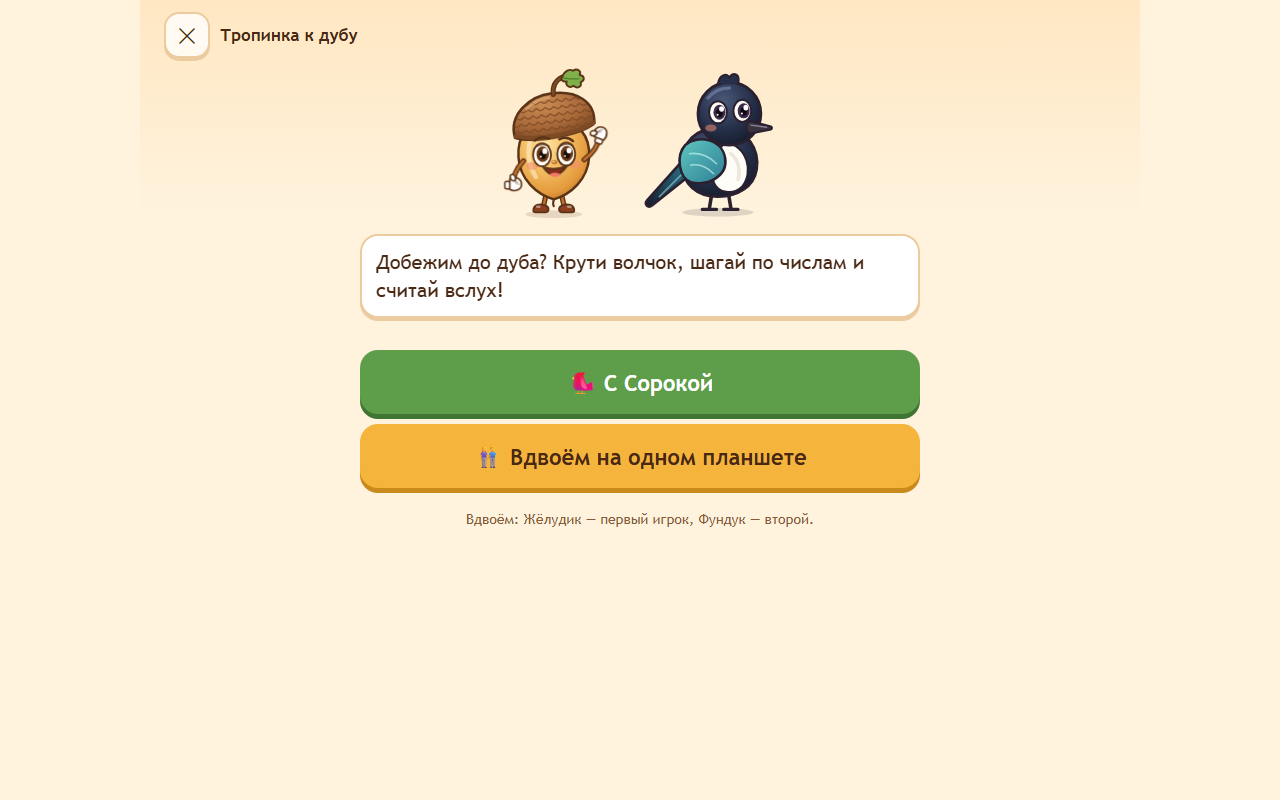
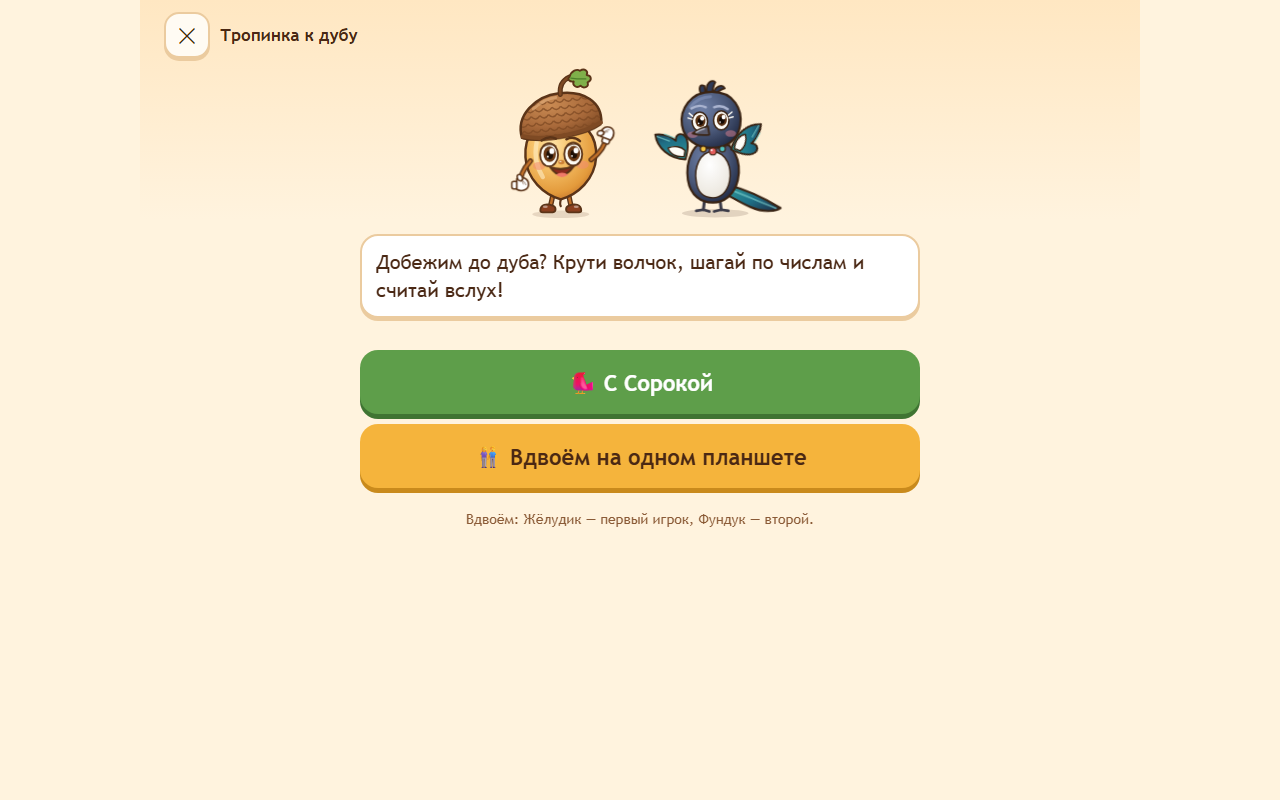
Тропинка: новая Сорока по концепту (4 позы, анимация), фишки-головы в кружках цвета игрока, крупный «Выпало N» с точками на волчке

diff --git a/js/art2.js b/js/art2.js
@@ -4,48 +4,86 @@
 'use strict';
 
 let art2N = 0;
-const A2 = { INK: '#2A2030', NAVY1: '#4A5878', NAVY2: '#26304A', NAVY3: '#151B2C', TEAL1: '#5FC7C0', TEAL2: '#2E7E96', CHEEK: '#F28C70', IRIS: '#3B2A4A' };
 
-/* Сорока: mood = happy | cheer (крылья вверх) | think */
-ART.soroka = function (mood = 'happy', cls = '') {
-  const u = 'so' + (++art2N), I = A2.INK;
-  const cheer = mood === 'cheer', think = mood === 'think';
-  const eye = (cx, cy) => {
-    if (cheer) return `<path d="M${cx - 11} ${cy + 3} q11 -14 22 0" stroke="${I}" stroke-width="4.5" fill="none" stroke-linecap="round"/>`;
-    const lx = think ? -3 : 2, ly = think ? -4 : 0;
-    return `<ellipse cx="${cx}" cy="${cy}" rx="12.5" ry="15.5" fill="#FFFDF6" stroke="${I}" stroke-width="2.8"/>
-<ellipse cx="${cx + lx}" cy="${cy + ly}" rx="8.4" ry="10.5" fill="${A2.IRIS}"/><ellipse cx="${cx + lx}" cy="${cy + ly + 1}" rx="4.6" ry="6" fill="#0E0812"/>
-<ellipse cx="${cx + lx + 3}" cy="${cy + ly - 4.5}" rx="3.4" ry="3.9" fill="#fff"/><circle cx="${cx + lx - 2.6}" cy="${cy + ly + 3.6}" r="1.4" fill="#fff"/>`;
-  };
-  const wing = cheer
-    ? `<g transform="rotate(-38 82 112)"><path d="M84 112 C66 96 34 92 22 104 C34 110 30 118 40 122 C34 128 40 136 52 134 C62 142 82 136 92 128 Z" fill="url(#w${u})" stroke="${I}" stroke-width="3.6" stroke-linejoin="round"/>
-<path d="M40 110 C54 112 68 116 82 120 M46 126 C58 126 70 126 84 126" stroke="#BFF1EC" stroke-width="2.2" fill="none" stroke-linecap="round" opacity=".7"/></g>`
-    : `<path d="M66 108 C84 92 118 100 122 126 C126 150 100 166 74 160 C58 154 52 124 66 108 Z" fill="url(#w${u})" stroke="${I}" stroke-width="3.6" stroke-linejoin="round"/>
-<path d="M72 120 C86 118 100 124 110 134 M74 136 C86 134 98 140 106 148" stroke="#BFF1EC" stroke-width="2.2" fill="none" stroke-linecap="round" opacity=".7"/>`;
-  return `<svg class="chip sor sor-${mood} ${cls}" viewBox="0 0 220 210" xmlns="http://www.w3.org/2000/svg" role="img" aria-label="Сорока"><defs>
-<radialGradient id="b${u}" cx="40%" cy="30%" r="75%"><stop offset="0" stop-color="${A2.NAVY1}"/><stop offset=".6" stop-color="${A2.NAVY2}"/><stop offset="1" stop-color="${A2.NAVY3}"/></radialGradient>
-<linearGradient id="w${u}" x1="0" y1="0" x2="1" y2="1"><stop offset="0" stop-color="${A2.TEAL1}"/><stop offset="1" stop-color="${A2.TEAL2}"/></linearGradient>
-<linearGradient id="t${u}" x1="1" y1="0" x2="0" y2="1"><stop offset="0" stop-color="${A2.TEAL2}"/><stop offset="1" stop-color="${A2.NAVY3}"/></linearGradient></defs>
-<ellipse cx="112" cy="202" rx="50" ry="6" fill="${I}" opacity=".15"/>
-<g class="sor-hop">
-<path d="M78 146 L20 192 C14 197 8 191 13 185 L64 128 Z" fill="url(#t${u})" stroke="${I}" stroke-width="3.6" stroke-linejoin="round"/>
-<path d="M30 180 L64 146" stroke="#9FE3DD" stroke-width="2.4" stroke-linecap="round" opacity=".55"/>
-<path d="M104 172 L100 196 M126 172 L130 196" stroke="${I}" stroke-width="5" stroke-linecap="round"/>
-<path d="M90 198 L110 198 M120 198 L140 198" stroke="${I}" stroke-width="4.5" stroke-linecap="round"/>
-<path d="M114 84 C156 84 170 116 166 142 C162 166 140 180 112 180 C82 180 62 162 62 134 C62 104 80 84 114 84 Z" fill="url(#b${u})" stroke="${I}" stroke-width="4" stroke-linejoin="round"/>
-<path d="M122 104 C154 110 162 146 146 166 C134 178 112 176 106 160 C102 142 108 118 122 104 Z" fill="#FFFDF7" stroke="${I}" stroke-width="3" stroke-linejoin="round"/>
-<path d="M130 120 C140 128 144 142 140 156" stroke="#E8E0D6" stroke-width="5" fill="none" stroke-linecap="round" opacity=".8"/>
-${wing}
-<circle cx="128" cy="64" r="44" fill="url(#b${u})" stroke="${I}" stroke-width="4"/>
-<path d="M112 22 C114 10 124 6 128 14 C132 4 144 8 140 22" fill="${A2.NAVY2}" stroke="${I}" stroke-width="3" stroke-linejoin="round"/>
-<path d="M98 42 C106 32 118 28 128 28" stroke="#7F90B8" stroke-width="5" fill="none" stroke-linecap="round" opacity=".55"/>
-${eye(112, 62)}${eye(146, 60)}
-<ellipse cx="102" cy="84" rx="8" ry="5" fill="${A2.CHEEK}" opacity=".55"/><ellipse cx="160" cy="82" rx="8" ry="5" fill="${A2.CHEEK}" opacity=".55"/>
-${think ? `<path d="M100 40 q10 -6 20 0 M136 38 q10 -2 18 4" stroke="${I}" stroke-width="3.6" fill="none" stroke-linecap="round"/>` : ''}
-<path d="M156 74 L186 82 C188 83 188 85 186 86 L156 92 C150 88 150 78 156 74 Z" fill="#3A3340" stroke="${I}" stroke-width="3" stroke-linejoin="round"/>
-<path d="M158 80 L180 83" stroke="#8C8496" stroke-width="2" stroke-linecap="round"/>
-${cheer ? `<path d="M150 96 q8 8 16 0" stroke="${I}" stroke-width="3" fill="#C84A3A" stroke-linejoin="round"/>` : ''}
-</g></svg>`;
+/* ---------- Сорока (Сорока-Путаница) — по утверждённому концепту (генератор заказчика soroka-gen.py, перенесён в JS) ----------
+   Приметы: тёмно-синее тело с сине-бирюзовым отливом, белое брюшко и белые пятна на крыльях, длинный бирюзовый хвост,
+   хохолок из трёх перьев, большие карие глаза с бликами и светлыми ресничками, короткий серый клюв, бусы из блестяшек.
+   Позы: happy — машет крылом (по умолчанию), cheer — «Ура! Мой ход!», sly — подмигивает с блестящим орешком
+   (хитрит; в будущем «Исправь Путаницу»), oops — её обогнали / поймали: удивлённые глаза, капелька.
+   head = true — только голова (для фишки на дорожке). */
+const SOR = { INK: '#3A2414', D1: '#4A5878', D2: '#2E3A57', D3: '#1E2740', TEAL: '#2F9C9A', TEAL2: '#1F6F86', WHITE: '#FFFDF7', BEAK: '#3B3B48', BLUSH: '#F28C9A' };
+const SOR_EYES = [[92, 90], [128, 88]];
+const SOR_POSE = { happy: [[70, 148, 200], [150, 140, -60]], sly: [[70, 150, 200], [140, 160, 150]], cheer: [[70, 130, 240], [152, 128, -80]], oops: [[70, 150, 200], [148, 150, -30]] };
+const sorS = (d, f, w = 3.4) => `<path d="${d}" fill="${f}" stroke="${SOR.INK}" stroke-width="${w}" stroke-linejoin="round" stroke-linecap="round"/>`;
+function sorEyes(m) {
+  const W = SOR.WHITE, I = SOR.INK;
+  let open = '', closed = '';
+  SOR_EYES.forEach(([x, y], i) => {
+    if ((m === 'sly' && i === 1) || m === 'cheer') { closed += `<path d="M${x - 11} ${y + 2} q11 -13 22 0" stroke="${W}" stroke-width="5" fill="none" stroke-linecap="round"/>`; return; }
+    const [lx, ly] = { happy: [1, -1], sly: [-3, 0], oops: [5, -2] }[m], big = m === 'oops' ? 1.12 : 1;
+    open += `<ellipse cx="${x}" cy="${y}" rx="${(13 * big).toFixed(1)}" ry="${(16 * big).toFixed(1)}" fill="${W}" stroke="${I}" stroke-width="2.6"/>
+<ellipse cx="${x + lx}" cy="${y + ly}" rx="8.4" ry="10.4" fill="#5A3214"/><ellipse cx="${x + lx}" cy="${y + ly + 1}" rx="4.6" ry="5.8" fill="#140A04"/>
+<ellipse cx="${x + lx + 3}" cy="${y + ly - 4.5}" rx="3.4" ry="3.9" fill="#fff"/><circle cx="${x + lx - 3}" cy="${y + ly + 4}" r="1.4" fill="#fff"/>`;
+  });
+  SOR_EYES.forEach(([x, y], i) => {   /* реснички — она девочка */
+    const s = i ? 1 : -1;
+    if ((m === 'sly' && s === 1) || m === 'cheer') return;
+    const ex = x + s * 12;
+    open += `<path d="M${ex} ${y - 9} l${s * 6} -5 M${ex + s} ${y - 4} l${s * 7} -2" stroke="${W}" stroke-width="2.4" stroke-linecap="round"/>`;
+  });
+  return (open ? `<g class="sor-eyes">${open}</g>` : '') + closed;
+}
+const sorBrows = m => `<path d="${{ happy: 'M78 68 q12 -8 24 -2 M116 66 q12 -5 23 3', sly: 'M78 70 q12 -4 24 0 M116 62 q12 -9 23 1',
+  cheer: 'M78 70 q12 -10 24 -2 M116 68 q12 -8 23 2', oops: 'M78 64 q12 -10 24 -4 M116 62 q12 -8 23 0' }[m]}" stroke="#AAB4D0" stroke-width="4" fill="none" stroke-linecap="round"/>`;
+function sorBeak(m) {
+  const B = '#5A5A6A';
+  if (m === 'cheer') return sorS('M104 100 Q90 100 78 106 Q92 108 106 108 Z', B, 3) + sorS('M104 112 Q92 114 82 120 Q96 122 106 116 Z', B, 3) + '<path d="M90 110 L102 111" stroke="#C0465A" stroke-width="4" stroke-linecap="round"/>';
+  return sorS('M106 98 Q94 100 80 110 Q94 114 108 112 Z', B, 3) + '<path d="M100 102 Q92 104 86 108" stroke="#B5BACB" stroke-width="2.2" fill="none" stroke-linecap="round"/>';
+}
+const sorWing = ([cx, cy, rot], u, side) => `<g transform="translate(${cx} ${cy}) rotate(${rot})"><g class="sor-wing sor-wing-${side}">`
+  + sorS('M0 -6 C26 -14 52 -4 62 16 C50 22 36 22 26 18 C30 26 26 32 18 32 C10 30 2 20 0 -6 Z', `url(#t${u})`, 3.2)
+  + sorS('M4 -2 C16 -8 28 -6 34 2 C26 10 14 12 6 8 Z', SOR.WHITE, 2.4)
+  + '<path d="M36 14 L58 14 M30 22 L48 22" stroke="#7FD3CF" stroke-width="2.2" stroke-linecap="round" opacity=".7"/></g></g>';
+
+ART.soroka = function (mood = 'happy', cls = '', head = false) {
+  if (mood === 'think') mood = 'oops';
+  if (!SOR_POSE[mood]) mood = 'happy';
+  const u = 'so' + (++art2N), I = SOR.INK, [L, Rw] = SOR_POSE[mood];
+  const blink = (3 + Math.random() * 2).toFixed(1);
+  const tuft = sorS('M96 48 C88 34 92 26 100 30 C100 36 102 42 104 48 Z', SOR.D2, 3)   /* хохолок: три пера */
+    + sorS('M104 44 C100 26 112 18 118 24 C114 30 114 38 112 46 Z', SOR.D2, 3)
+    + sorS('M114 46 C116 30 130 26 134 34 C126 36 120 42 118 48 Z', SOR.D2, 3);
+  const extra = mood === 'sly'
+    ? `<g transform="translate(150 160)"><ellipse rx="11" ry="13" fill="#F4C542" stroke="${I}" stroke-width="2.6"/><path d="M-11 -4 Q0 -18 11 -4 Z" fill="#A8693A" stroke="${I}" stroke-width="2.4"/><path d="M-4 2 q2 -6 6 -6" stroke="#fff" stroke-width="2.4" fill="none"/><path class="sor-spark" d="M16 -14 l4 -4 M18 -6 l6 -1 M14 -20 l1 -6" stroke="#F4C542" stroke-width="2.5" stroke-linecap="round"/></g>`
+    : mood === 'oops' ? `<path d="M150 70 q6 10 0 14 q-6 -4 0 -14 Z" fill="#9FD8F2" stroke="${I}" stroke-width="2"/>` : '';
+  const squash = mood === 'cheer' ? ' transform="translate(115 244) scale(1.04 .96) translate(-115 -244)"' : '';
+  const vb = head ? '54 14 116 116' : '0 0 240 252';
+  const body = head ? '' : `<g class="sor-tail">${sorS('M138 196 C170 206 200 222 226 240 C216 246 196 246 176 236 C160 228 146 218 132 210 Z', `url(#t${u})`, 3.4)}
+<path d="M146 206 C172 218 196 230 218 240" stroke="#7FD3CF" stroke-width="3" fill="none" stroke-linecap="round" opacity=".6"/></g>
+<path d="M100 222 L98 238 M126 222 L128 238" stroke="${SOR.BEAK}" stroke-width="5" stroke-linecap="round"/>
+<path d="M86 240 L98 238 L108 241 M116 241 L128 238 L140 240" stroke="${SOR.BEAK}" stroke-width="4.5" fill="none" stroke-linecap="round" stroke-linejoin="round"/>
+${sorS('M114 120 C152 122 162 160 156 188 C150 214 132 226 114 226 C94 226 76 214 72 188 C68 160 78 120 114 120 Z', `url(#h${u})`, 3.6)}
+${sorS('M114 140 C138 142 146 168 142 190 C138 210 126 218 114 218 C100 218 88 210 86 190 C82 168 92 140 114 140 Z', `url(#w${u})`, 2.4)}
+${sorWing(L, u, 'l')}`;
+  const front = head ? '' : `<path d="M84 128 Q114 146 144 128" stroke="${I}" stroke-width="1.6" fill="none"/>
+<circle cx="98" cy="136" r="5" fill="#F4C542" stroke="${I}" stroke-width="2"/><circle cx="114" cy="140" r="6" fill="#E25B5B" stroke="${I}" stroke-width="2"/><circle cx="130" cy="136" r="5" fill="#4FC3C0" stroke="${I}" stroke-width="2"/>
+<circle cx="112" cy="138" r="1.8" fill="#fff"/>
+${sorWing(Rw, u, 'r')}
+${extra}`;
+  return `<svg class="chip sor sor-${mood}${head ? ' head' : ''} ${cls}" style="--blink:${blink}s" viewBox="${vb}" xmlns="http://www.w3.org/2000/svg" role="img" aria-label="Сорока"><defs>
+<radialGradient id="h${u}" cx="35%" cy="30%" r="80%"><stop offset="0" stop-color="#6E7FA6"/><stop offset=".55" stop-color="${SOR.D1}"/><stop offset="1" stop-color="${SOR.D3}"/></radialGradient>
+<linearGradient id="t${u}" x1="0" y1="0" x2="1" y2="1"><stop offset="0" stop-color="${SOR.TEAL}"/><stop offset=".55" stop-color="${SOR.TEAL2}"/><stop offset="1" stop-color="${SOR.D3}"/></linearGradient>
+<radialGradient id="w${u}" cx="40%" cy="30%" r="80%"><stop offset="0" stop-color="#FFFFFF"/><stop offset="1" stop-color="#E9E4DA"/></radialGradient></defs>
+${head ? '' : `<ellipse cx="118" cy="244" rx="56" ry="7" fill="${I}" opacity=".15"/>`}
+<g class="sor-jump"><g class="sor-bob"><g${squash}>
+${body}
+${tuft}
+${sorS('M112 40 C150 40 164 70 160 96 C156 122 136 134 112 134 C86 134 66 120 62 96 C58 70 76 40 112 40 Z', `url(#h${u})`, 3.6)}
+<path d="M76 66 C84 54 98 48 110 48" stroke="#8C9BC4" stroke-width="5" fill="none" stroke-linecap="round" opacity=".5"/>
+<ellipse cx="80" cy="112" rx="9" ry="5.5" fill="${SOR.BLUSH}" opacity=".45"/><ellipse cx="144" cy="110" rx="9" ry="5.5" fill="${SOR.BLUSH}" opacity=".45"/>
+${sorBrows(mood)}${sorEyes(mood)}${sorBeak(mood)}
+${front}
+</g></g></g></svg>`;
 };
 
 /* Дуб у конца тропинки: big — для финальной сцены */
@@ -64,8 +102,8 @@ ART.oak = function (cls = '') {
 ${acorn(60, 96)}${acorn(132, 72)}${acorn(150, 118)}${acorn(92, 124)}${acorn(110, 92)}</svg>`;
 };
 
-/* Волчок: half — число на боку (1 или 2), spinning — для анимации */
-ART.top = function (n = '', cls = '') {
+/* Волчок: n — число на боку (1 или 2), dots — ещё и столько же жёлудей-точек сверху, spinning — для анимации */
+ART.top = function (n = '', cls = '', dots = false) {
   const u = 'top' + (++art2N), I = '#4A2814';
   return `<svg class="ktop ${cls}" viewBox="0 0 120 130" xmlns="http://www.w3.org/2000/svg" role="img" aria-label="Волчок"><defs>
 <linearGradient id="g${u}" x1="0" x2="1"><stop offset="0" stop-color="#E8742E"/><stop offset=".5" stop-color="#F5B43C"/><stop offset="1" stop-color="#E8742E"/></linearGradient></defs>
@@ -74,5 +112,6 @@ ART.top = function (n = '', cls = '') {
 <path d="M14 58 C14 38 36 28 60 28 C84 28 106 38 106 58 C106 80 76 104 62 120 C61 121 59 121 58 120 C44 104 14 80 14 58 Z" fill="url(#g${u})" stroke="${I}" stroke-width="4" stroke-linejoin="round"/>
 <path d="M18 60 C40 70 80 70 102 60" stroke="#C0561E" stroke-width="5" fill="none"/>
 <path d="M30 44 C40 36 52 34 62 34" stroke="#FFE3A6" stroke-width="5" fill="none" stroke-linecap="round" opacity=".7"/>
-${n !== '' ? `<circle cx="60" cy="80" r="17" fill="#FFFBF3" stroke="${I}" stroke-width="3"/><text x="60" y="89" text-anchor="middle" font-size="26" font-weight="800" fill="${I}" font-family="system-ui, sans-serif">${n}</text>` : ''}</g></svg>`;
+${n !== '' ? (() => { const cy = dots ? 54 : 80; return `<circle cx="60" cy="${cy}" r="17" fill="#FFFBF3" stroke="${I}" stroke-width="3"/><text x="60" y="${cy + 9}" text-anchor="middle" font-size="26" font-weight="800" fill="${I}" font-family="system-ui, sans-serif">${n}</text>`; })() : ''}
+${dots && n ? Array.from({ length: n }, (_, i) => `<g transform="translate(${60 + (i - (n - 1) / 2) * 22} 84)"><path d="M-7 1 C-7 9 -3 14 0 15 C3 14 7 9 7 1 Z" fill="#7A3E12" stroke="${I}" stroke-width="2.5" stroke-linejoin="round"/><path d="M-9 1.5 C-9 -7 9 -7 9 1.5 Z" fill="#4A2814" stroke="${I}" stroke-width="2.5" stroke-linejoin="round"/><path d="M0 -6 L1 -10" stroke="${I}" stroke-width="2.5" stroke-linecap="round"/></g>`).join('') : ''}</g></svg>`;
 };

diff --git a/css/style.css b/css/style.css
@@ -383,16 +383,24 @@ svg.ch-show .ch-arm-r { transform-origin: 138px 158px; animation: zhwave .45s ea
 .pcell b { display: flex; align-items: center; justify-content: center; width: 100%; aspect-ratio: 1; border-radius: 14px; background: #FFFBF3;
   border: 3px solid #D9A96A; box-shadow: 0 4px 0 #C08A4E; font-size: clamp(18px, 3.6vw, 34px); font-weight: 800; }
 .ptrack.n20 .pcell b { border-radius: 10px; font-size: clamp(14px, 2vw, 24px); border-width: 2px; }
-.pcell.next b { background: #FFE9A8; border-color: var(--gold-d); animation: kpulse 1s ease-in-out infinite; }
+/* Клетка с фишкой — цвет игрока (две фишки — пополам) */
+.pcell.p0 b { background: var(--c0); border-color: var(--e0); }
+.pcell.p1 b { background: var(--c1); border-color: var(--e1); }
+.pcell.p0.p1 b { background: linear-gradient(90deg, var(--c0) 50%, var(--c1) 50%); }
+.pcell.next b { background: #fff; border: 3px dashed var(--green); animation: kpulse 1s ease-in-out infinite; }   /* «шагай сюда» — не путать с цветом игрока */
 .pcell.ok b { background: #DDF2CC; border-color: var(--green); }
 .pcell.no b { background: #FBE0D8; border-color: var(--red); }
 .pcell.hint b { background: #FFF2C4; }
 .pcell.goal b { background: #FFD36E; border-color: var(--gold-d); animation: kpulse 1s ease-in-out infinite; }
-.ptoks { display: flex; justify-content: center; align-items: flex-end; height: 64px; width: 100%; }
-.ptrack.n20 .ptoks { height: 48px; }
-.ptok { display: block; height: 100%; flex: 0 1 auto; min-width: 0; }
-.ptok svg { height: 100%; width: auto; max-width: 100%; display: block; }
-.ptok.t1 { margin-left: -14%; }
+/* Фишка — голова героя в кружке его цвета. На планшете не меньше 48 px; может выходить за ширину клетки */
+.ptoks { display: flex; justify-content: center; align-items: flex-end; height: 68px; width: 100%; overflow: visible; padding-bottom: 4px; }
+.ptrack.n20 .ptoks { height: 56px; }
+.ptok { display: block; height: 100%; aspect-ratio: 1; flex: none; border-radius: 50%; background: var(--c); border: 3px solid var(--e);
+  box-shadow: 0 3px 0 var(--e); overflow: hidden; box-sizing: border-box; }
+.ptok svg { width: 100%; height: 100%; display: block; }
+.ptok svg.zh, .ptok svg.sor, .ptok svg.ch { animation: none; }
+.ptok.t1 { margin-left: -16px; }
+.ptok.cur { position: relative; z-index: 1; }
 .ptok.hop { animation: phop .45s cubic-bezier(.3, .7, .4, 1); }
 @keyframes phop { 40% { transform: translateY(-16px); } }
 .poak { flex: none; width: clamp(64px, 11vw, 110px); }
@@ -401,19 +409,33 @@ svg.ch-show .ch-arm-r { transform-origin: 138px 158px; animation: zhwave .45s ea
 .pbottom .helper { flex: 1; margin-top: 0; }
 .pspin { flex: none; display: flex; flex-direction: column; align-items: center; gap: 4px; }
 .ptopbtn { width: 128px; height: 136px; border: 0; background: none; padding: 0; cursor: pointer; }
-.ptopbtn[disabled] { opacity: .6; cursor: default; }
+.ptopbtn[disabled] { cursor: default; }   /* не бледнеет: на волчке остаётся крупно, что выпало */
 .ptopbtn:not([disabled]) svg { animation: kpulse 1.2s ease-in-out infinite; }
 .ptopbtn svg { width: 100%; height: 100%; }
 svg.ktop.spinning .ktop-body { transform-box: fill-box; transform-origin: 50% 70%; animation: pspin .25s linear infinite; }
 @keyframes pspin { 0% { transform: rotate(-14deg) scaleX(1); } 50% { transform: rotate(14deg) scaleX(.82); } 100% { transform: rotate(-14deg) scaleX(1); } }
 .pbig { font-size: 40px; font-weight: 800; line-height: 1; }
+.proll { display: block; font-size: 26px; font-weight: 800; margin-bottom: 4px; }
+.proll b { font-size: 40px; line-height: 1; }
+.pdots { color: var(--gold-d); letter-spacing: 4px; font-size: 26px; }
 .pfinal .pscene { position: relative; width: min(340px, 90%); margin: 0 auto; }
 .pfinal .pscene svg.oak { width: 70%; height: auto; display: block; margin: 0 auto; }
 .pfinal .pwin { position: absolute; left: 0; bottom: 0; width: 34%; }
 .pfinal .plose { position: absolute; right: 0; bottom: 0; width: 24%; }
 .pfinal .pwin svg, .pfinal .plose svg { width: 100%; height: auto; }
-svg.sor { overflow: visible; animation: zhbob 2.4s ease-in-out infinite; }
-svg.sor-cheer .sor-hop { transform-box: fill-box; transform-origin: 50% 100%; animation: zhjump .8s cubic-bezier(.3, .7, .4, 1) 2; }
+/* ---------- Сорока: покачивание, моргание раз в 3–5 с, хвост качается; cheer — прыжок со взмахом крыльев ---------- */
+svg.sor { overflow: visible; }
+svg.sor.head { overflow: hidden; }
+svg.sor .sor-bob { animation: zhbob 2.4s ease-in-out infinite; }
+svg.sor .sor-eyes { transform-box: fill-box; transform-origin: center; animation: zhblink var(--blink, 4s) linear infinite; }
+svg.sor .sor-tail { transform-origin: 136px 202px; animation: chtail 3s ease-in-out infinite; }
+svg.sor-cheer .sor-jump { transform-box: fill-box; transform-origin: 50% 100%; animation: zhjump .8s cubic-bezier(.3, .7, .4, 1) 2; }
+svg.sor-cheer .sor-wing { animation: sorflap .2s ease-in-out 8 alternate; }
+@keyframes sorflap { from { transform: rotate(0); } to { transform: rotate(-18deg); } }
+svg.sor-happy .sor-wing-r { animation: sorwave 1.6s ease-in-out infinite; }
+@keyframes sorwave { 0%, 60%, 100% { transform: rotate(0); } 70%, 90% { transform: rotate(-16deg); } 80% { transform: rotate(4deg); } }
+svg.sor-sly .sor-spark { animation: sorspark 1.2s ease-in-out infinite; }
+@keyframes sorspark { 0%, 100% { opacity: 1; } 50% { opacity: .2; } }
 /* Узко (телефон): дуб уходит под ряд, чтобы клетки были крупнее;
    20 клеток — две строки по 10 (1–10, под ними 11–20), обе читаются слева направо. Планшет — всегда один ряд. */
 @media (max-width: 600px) {
@@ -423,11 +445,11 @@ svg.sor-cheer .sor-hop { transform-box: fill-box; transform-origin: 50% 100%; an
   .poak svg { width: 58px; }
   .ptrack.n20 .pcells { grid-template-columns: repeat(10, minmax(0, 1fr)); gap: 2px; row-gap: 2px; }
   .ptrack.n20 .pcell b { border-radius: 8px; font-size: 16px; box-shadow: 0 2px 0 #C08A4E; }
-  .ptrack.n20 .ptoks { height: 34px; }
+  .ptrack.n20 .ptoks { height: 32px; }
   .ptrack.n20 .pstart { align-self: flex-start; }   /* старт — у первой строки, рядом с 1 */
   .pcell b { font-size: 17px; border-radius: 9px; border-width: 2px; }
-  .ptoks { height: 42px; }
+  .ptoks { height: 38px; }
   .pbottom { flex-direction: column-reverse; align-items: stretch; }
   .pspin { align-self: center; }
 }
-@media (prefers-reduced-motion: reduce) { svg.sor, svg.sor *, .ptok.hop, svg.ktop.spinning .ktop-body { animation: none !important; } }
+@media (prefers-reduced-motion: reduce) { svg.sor, svg.sor *, .ptok, .ptok *, svg.ktop.spinning .ktop-body { animation: none !important; } }

diff --git a/dev/shot-path.html b/dev/shot-path.html
@@ -35,8 +35,8 @@
   const stage = (stars, mode, f) => { S.stars.k_path = stars; pathStart(mode); setTimeout(() => { f(); }, 400); };
   const draw = (pos, turn) => { PT.pos = pos; PT.turn = turn; pathRender(); pathTokens(); document.getElementById('pwho').textContent = 'Ход: ' + P_PLAYERS[PT.mode][turn].name; };
   if (s === 'setup') pathSetup();
-  if (s === 'd1') stage(0, 'bird', () => { draw([3, 2], 0); PT.phase = 'tap'; PT.target = 5; document.getElementById('pspin').innerHTML = ART.top(2); pMark(4, 'next'); pBub('Шагай: нажимай на клетки по порядку 👆', 'show'); });
-  if (s === 'd2') stage(1, 'bird', () => { draw([4, 3], 0); const q = pathAsk(4, 2, 10); PT.phase = 'ask'; PT.q = q; document.getElementById('pspin').innerHTML = ART.top(2); pBub(`<b>${q.text}</b> 👆`, 'think'); });
+  if (s === 'd1') stage(0, 'bird', () => { draw([3, 2], 0); PT.phase = 'tap'; PT.target = 5; document.getElementById('pspin').innerHTML = ART.top(2, '', true); PT.roll = 2; pMark(4, 'next'); pBub('Шагай: нажимай на клетки по порядку 👆', 'show'); });
+  if (s === 'd2') stage(1, 'bird', () => { draw([4, 3], 0); const q = pathAsk(4, 2, 10); PT.phase = 'ask'; PT.q = q; document.getElementById('pspin').innerHTML = ART.top(2, '', true); PT.roll = 2; pBub(`<b>${q.text}</b> 👆`, 'think'); });
   if (s === 'd3') stage(2, 'bird', () => { draw([11, 9], 0); const q = { kind: 'where', ans: 17, text: 'Покажи, где живёт число 17.' }; PT.phase = 'ask'; PT.q = q; pBub(`<b>${q.text}</b> 👆`, 'think'); });
   if (s === 'two') stage(1, 'two', () => { draw([6, 5], 1); PT.phase = 'spin'; document.getElementById('pspin').disabled = false; pBub('Ход Фундука! Крути волчок. 👇', 'happy'); });
   if (s === 'final') stage(0, 'bird', () => { PT.pos = [10, 7]; PT.asks = 8; PT.first = 7; PT.acorns = 7; pathFinish(0); });

diff --git a/dev/art2-test.html b/dev/art2-test.html
@@ -2,4 +2,4 @@
 <style>body{overflow:auto;background:#FFF3DE}.g{display:flex;flex-wrap:wrap;gap:16px;padding:16px;align-items:flex-end}.g svg{width:180px;height:auto}</style></head>
 <body><div class="g" id="g"></div>
 <script src="../js/core.js"></script><script src="../js/art.js"></script><script src="../js/art2.js"></script>
-<script>const g=document.getElementById('g');g.innerHTML=['happy','cheer','think'].map(m=>ART.soroka(m)).join('')+ART.oak()+ART.top()+ART.top(2);</script></body></html>
+<script>const g=document.getElementById('g');g.innerHTML=['happy','sly','cheer','oops'].map(m=>ART.soroka(m)).join('')+ART.soroka('happy','',true)+ART.oak()+ART.top()+ART.top(2);</script></body></html>

diff --git a/dev/phone.html b/dev/phone.html
@@ -1,0 +1,2 @@
+<!doctype html><meta charset="utf-8"><style>html,body{margin:0;background:#fff}iframe{border:0;width:390px;height:844px;display:block}</style>
+<iframe id="f"></iframe><script>document.getElementById('f').src=decodeURIComponent(location.search.slice(1))</script>
